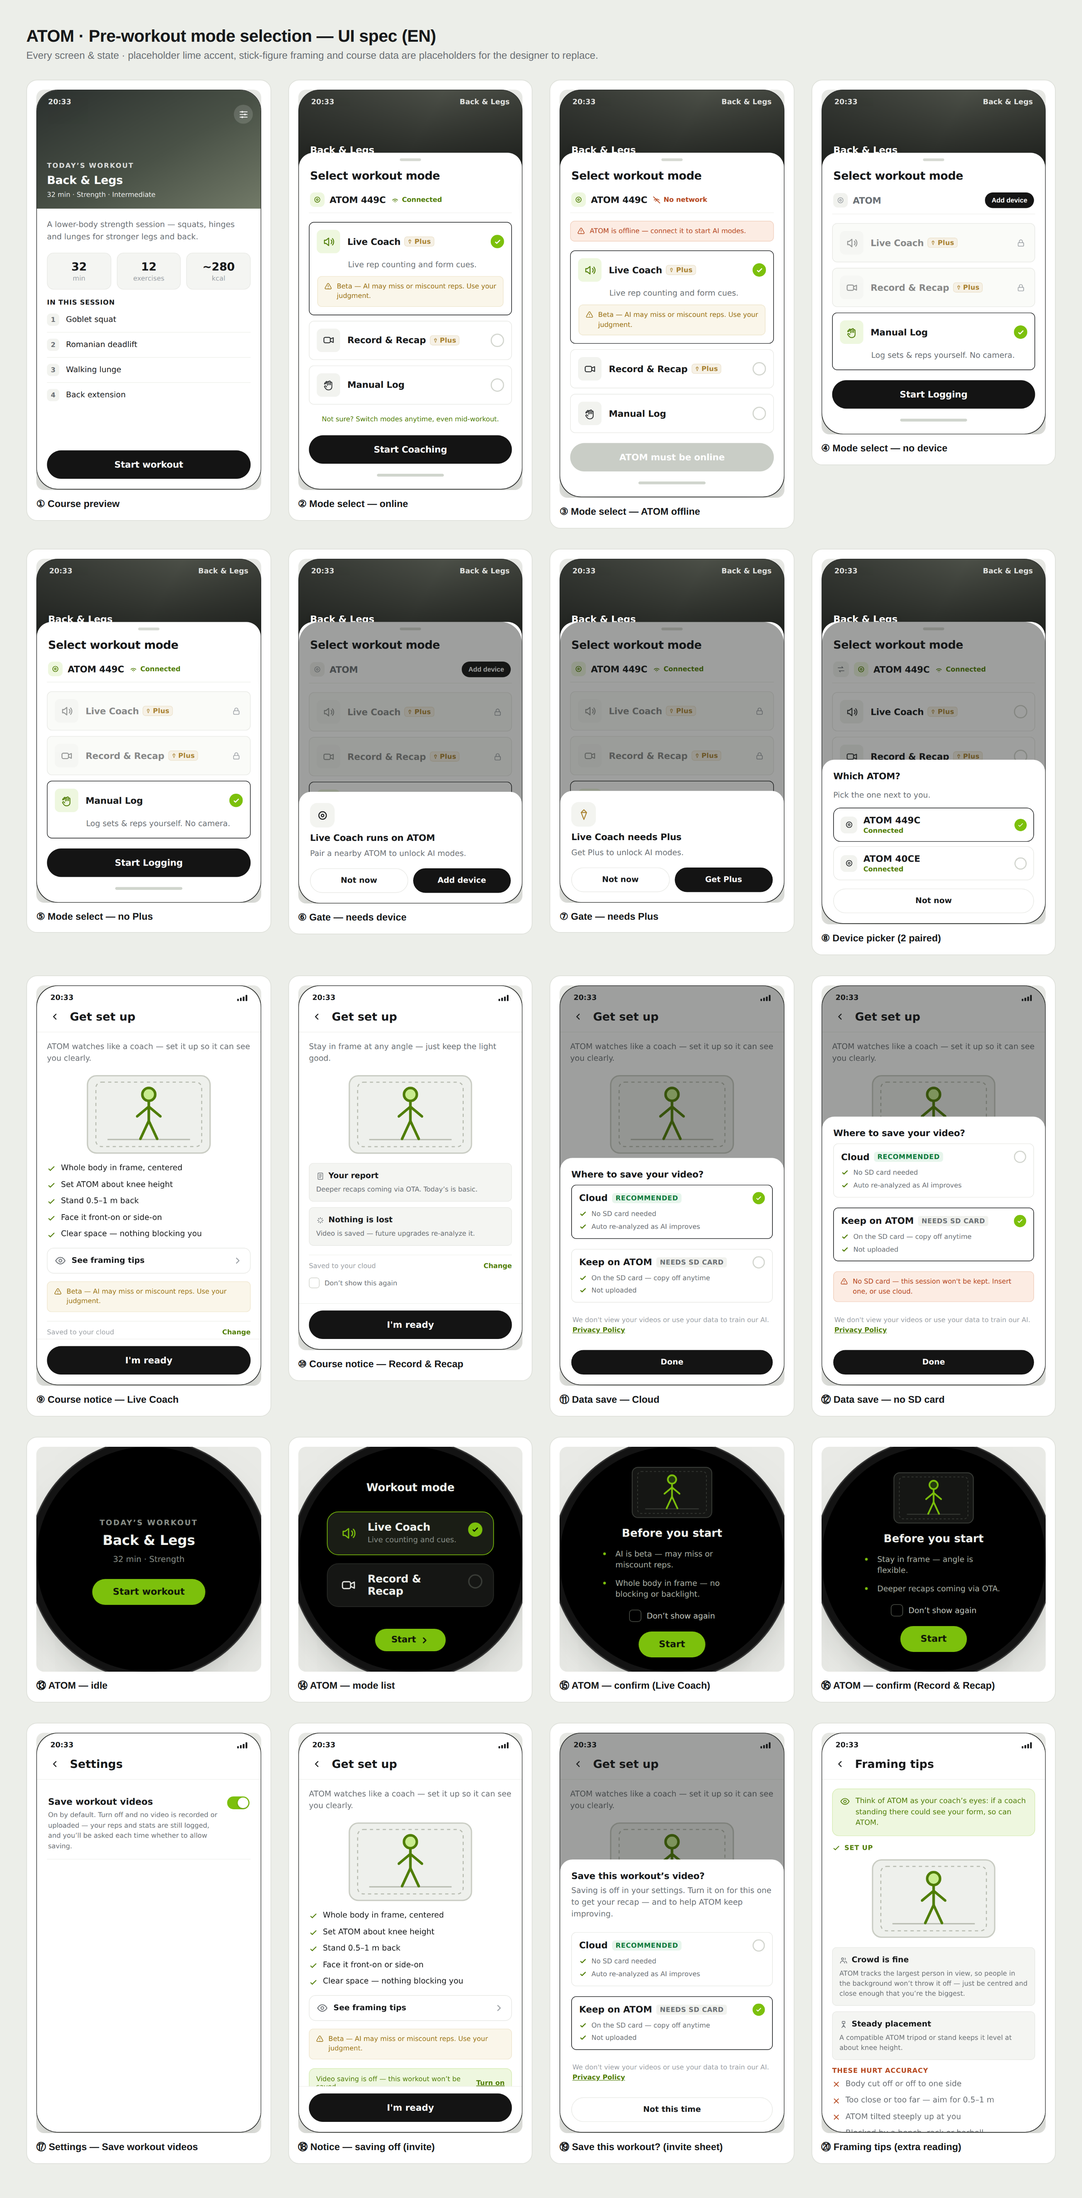
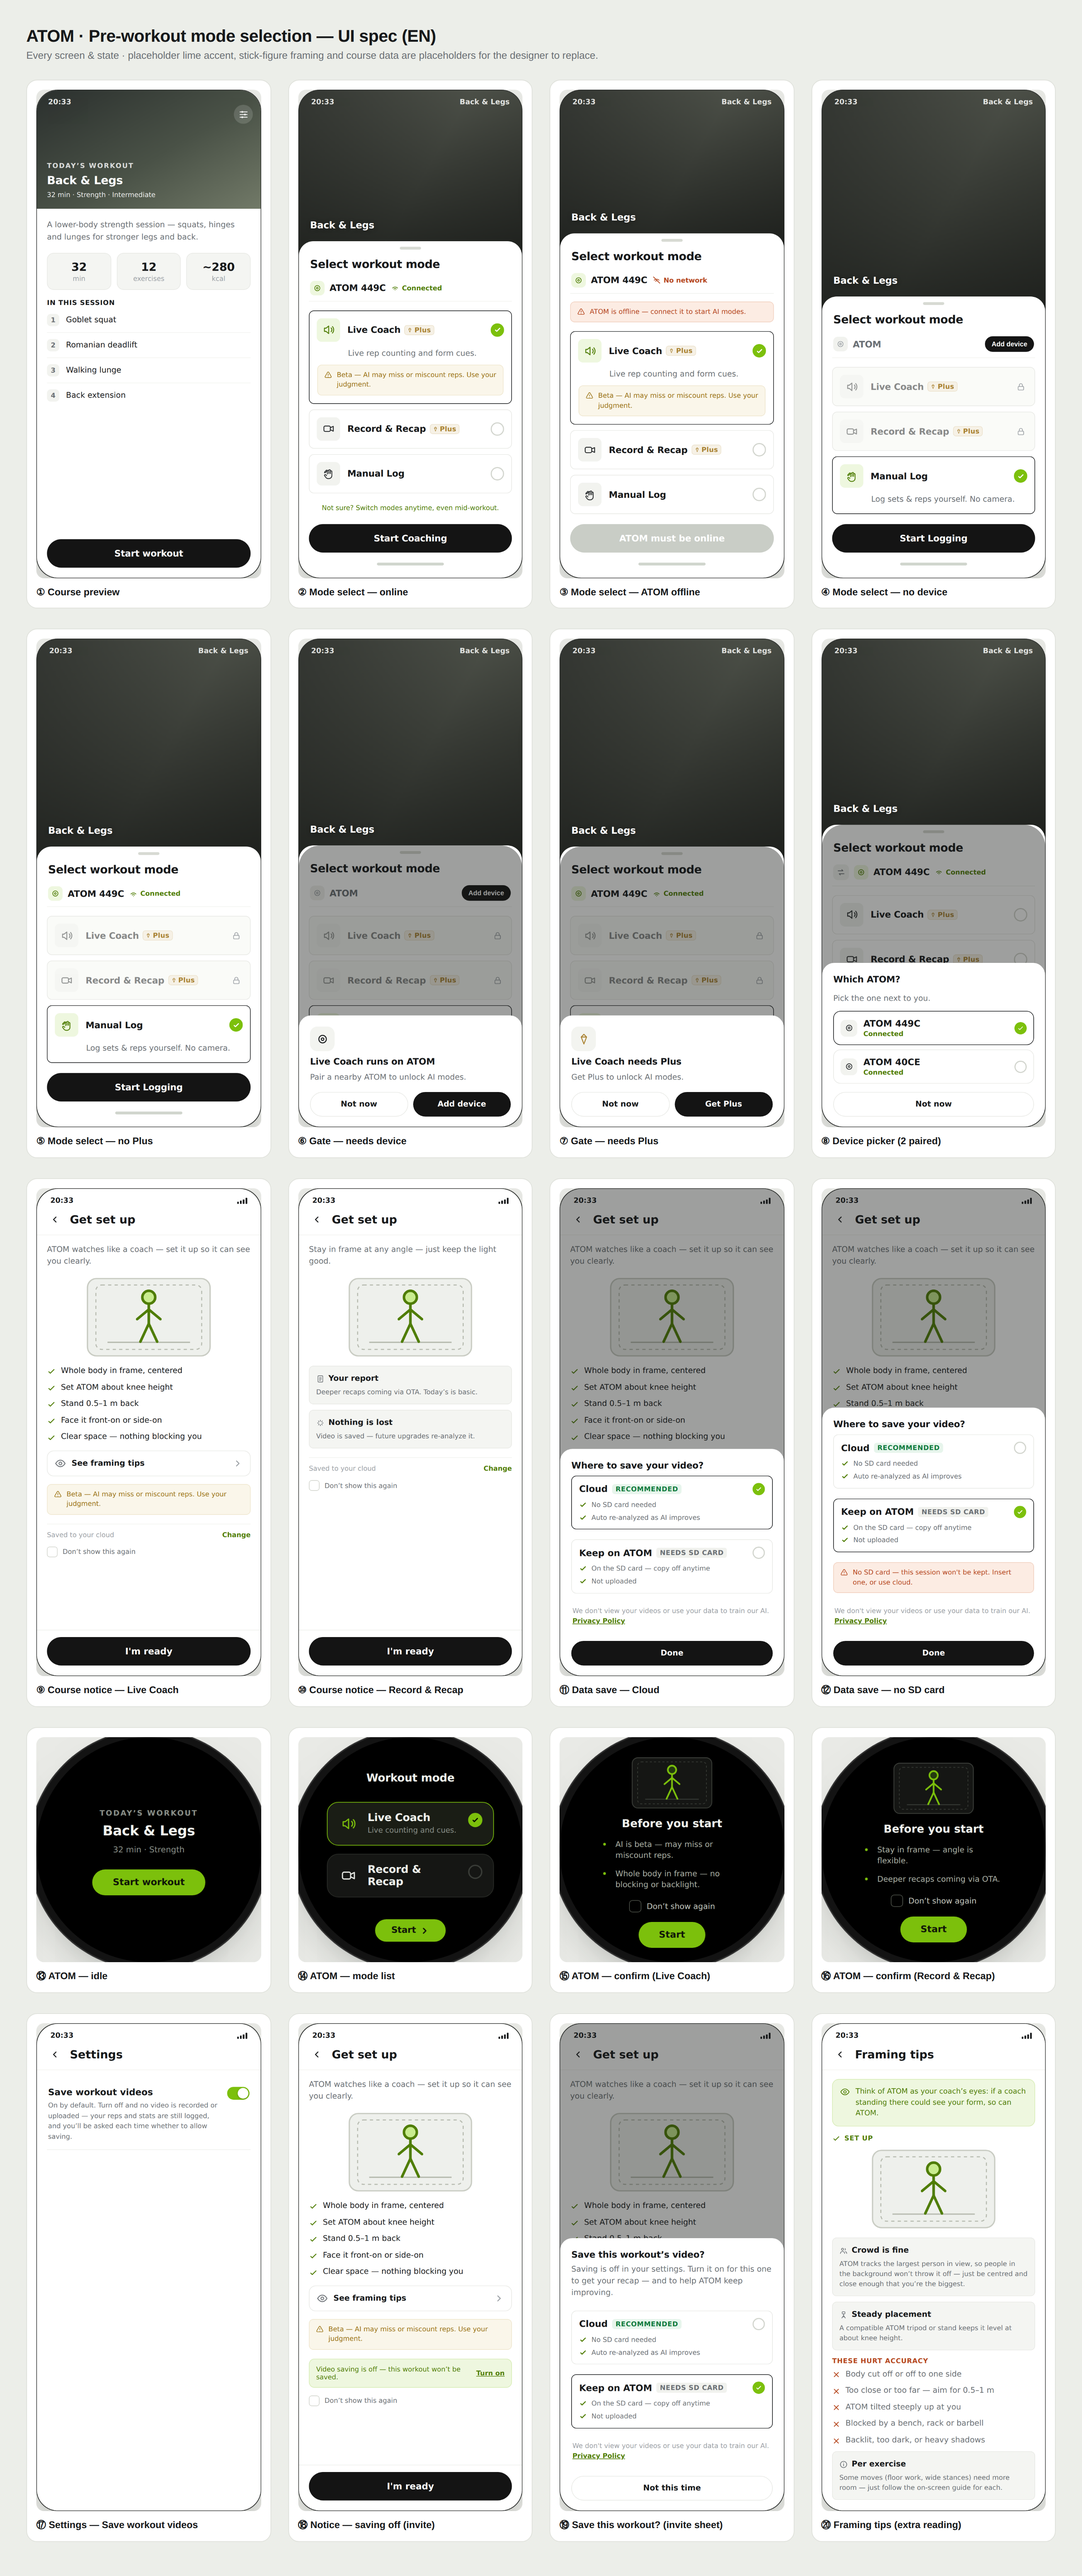
fix: phone renders at true iPhone 17 ratio (402×874); export per-screen mockups
- Prototype: .phone fixed to 402×874 (was content-driven ~716pt, looked squat).
  Backdrop grows to fill hero; sheet anchors to bottom as a proper iOS bottom sheet.
  Nudge hero title clear of the sheet edge.
- Regenerate UI-spec-en/zh + flow-board at the corrected proportions.
- Add iphone17-mockups/{en,zh}/ — 16 key phone screens each, 402×874 @3x (1206×2622px)
  for 1:1 viewing on an actual iPhone 17.

diff --git a/prototype-课前模式选择.html b/prototype-课前模式选择.html
@@ -38,11 +38,11 @@
   .colhead{font-size:12px;letter-spacing:.11em;text-transform:uppercase;color:var(--studio-sub);font-weight:700;text-align:center;margin-bottom:14px;}
 
   /* ===== PHONE ===== */
-  .phone{position:relative;border-radius:38px;overflow:hidden;box-shadow:var(--shadow);border:1px solid rgba(0,0,0,.06);background:#2b2d2c;width:402px;}
-  .backdrop{height:132px;background:linear-gradient(180deg,rgba(20,22,20,.15),rgba(20,22,20,.75)),linear-gradient(120deg,#3a3d38,#565a51 55%,#41443d);position:relative;}
+  .phone{position:relative;border-radius:38px;overflow:hidden;box-shadow:var(--shadow);border:1px solid rgba(0,0,0,.06);background:#2b2d2c;width:402px;height:874px;display:flex;flex-direction:column;}
+  .backdrop{flex:1 1 auto;min-height:132px;background:linear-gradient(180deg,rgba(20,22,20,.15),rgba(20,22,20,.75)),linear-gradient(120deg,#3a3d38,#565a51 55%,#41443d);position:relative;}
   .backdrop .status{position:absolute;top:14px;left:0;right:0;display:flex;justify-content:space-between;padding:0 22px;color:#f4f5f2;font-size:13px;font-weight:600;opacity:.9;}
-  .backdrop .ttl{position:absolute;left:20px;bottom:14px;color:#fff;font-size:17px;font-weight:800;letter-spacing:-.01em;text-shadow:0 1px 8px rgba(0,0,0,.4);}
-  .sheet{background:var(--sheet);border-radius:26px 26px 38px 38px;margin-top:-20px;position:relative;padding:8px 18px 18px;display:flex;flex-direction:column;gap:6px;}
+  .backdrop .ttl{position:absolute;left:20px;bottom:38px;color:#fff;font-size:17px;font-weight:800;letter-spacing:-.01em;text-shadow:0 1px 8px rgba(0,0,0,.4);}
+  .sheet{flex:none;background:var(--sheet);border-radius:26px 26px 38px 38px;margin-top:-20px;position:relative;padding:8px 18px 18px;display:flex;flex-direction:column;gap:6px;}
   .grab{width:38px;height:5px;border-radius:99px;background:#d7dad3;margin:2px auto 6px;}
   .stitle{font-size:20px;font-weight:800;letter-spacing:-.015em;color:var(--ink);padding:2px 2px 8px;}
 
